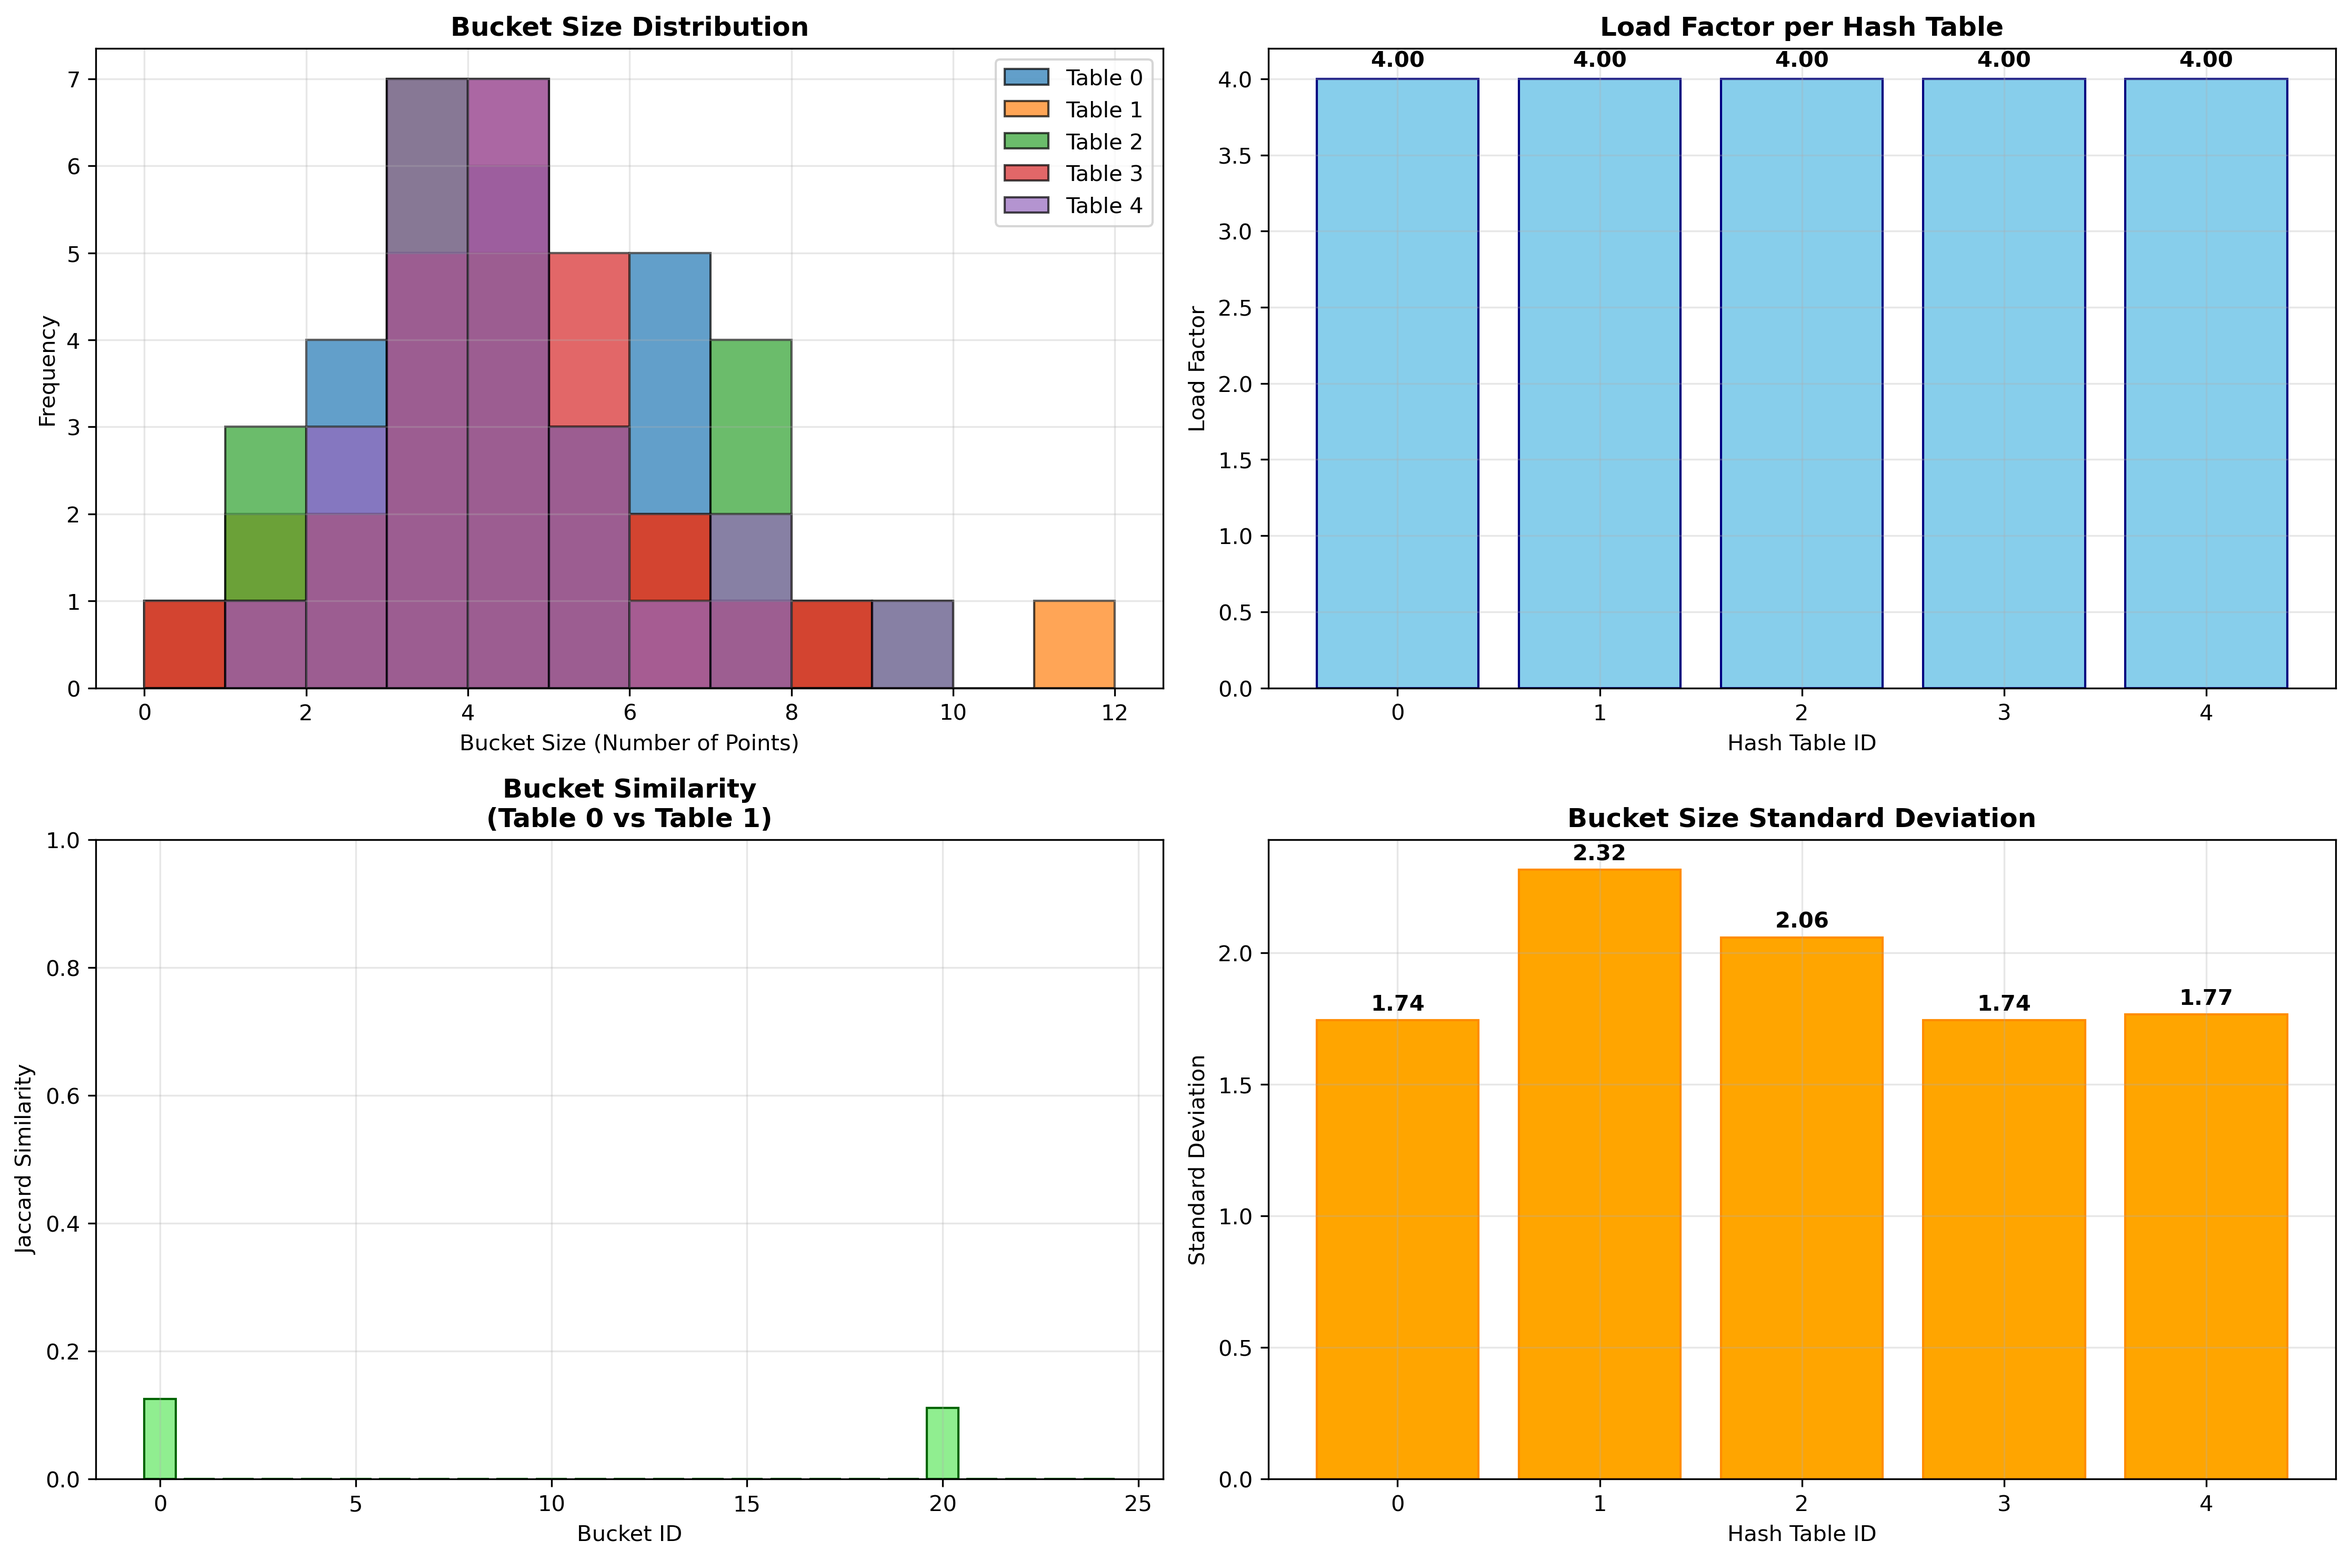
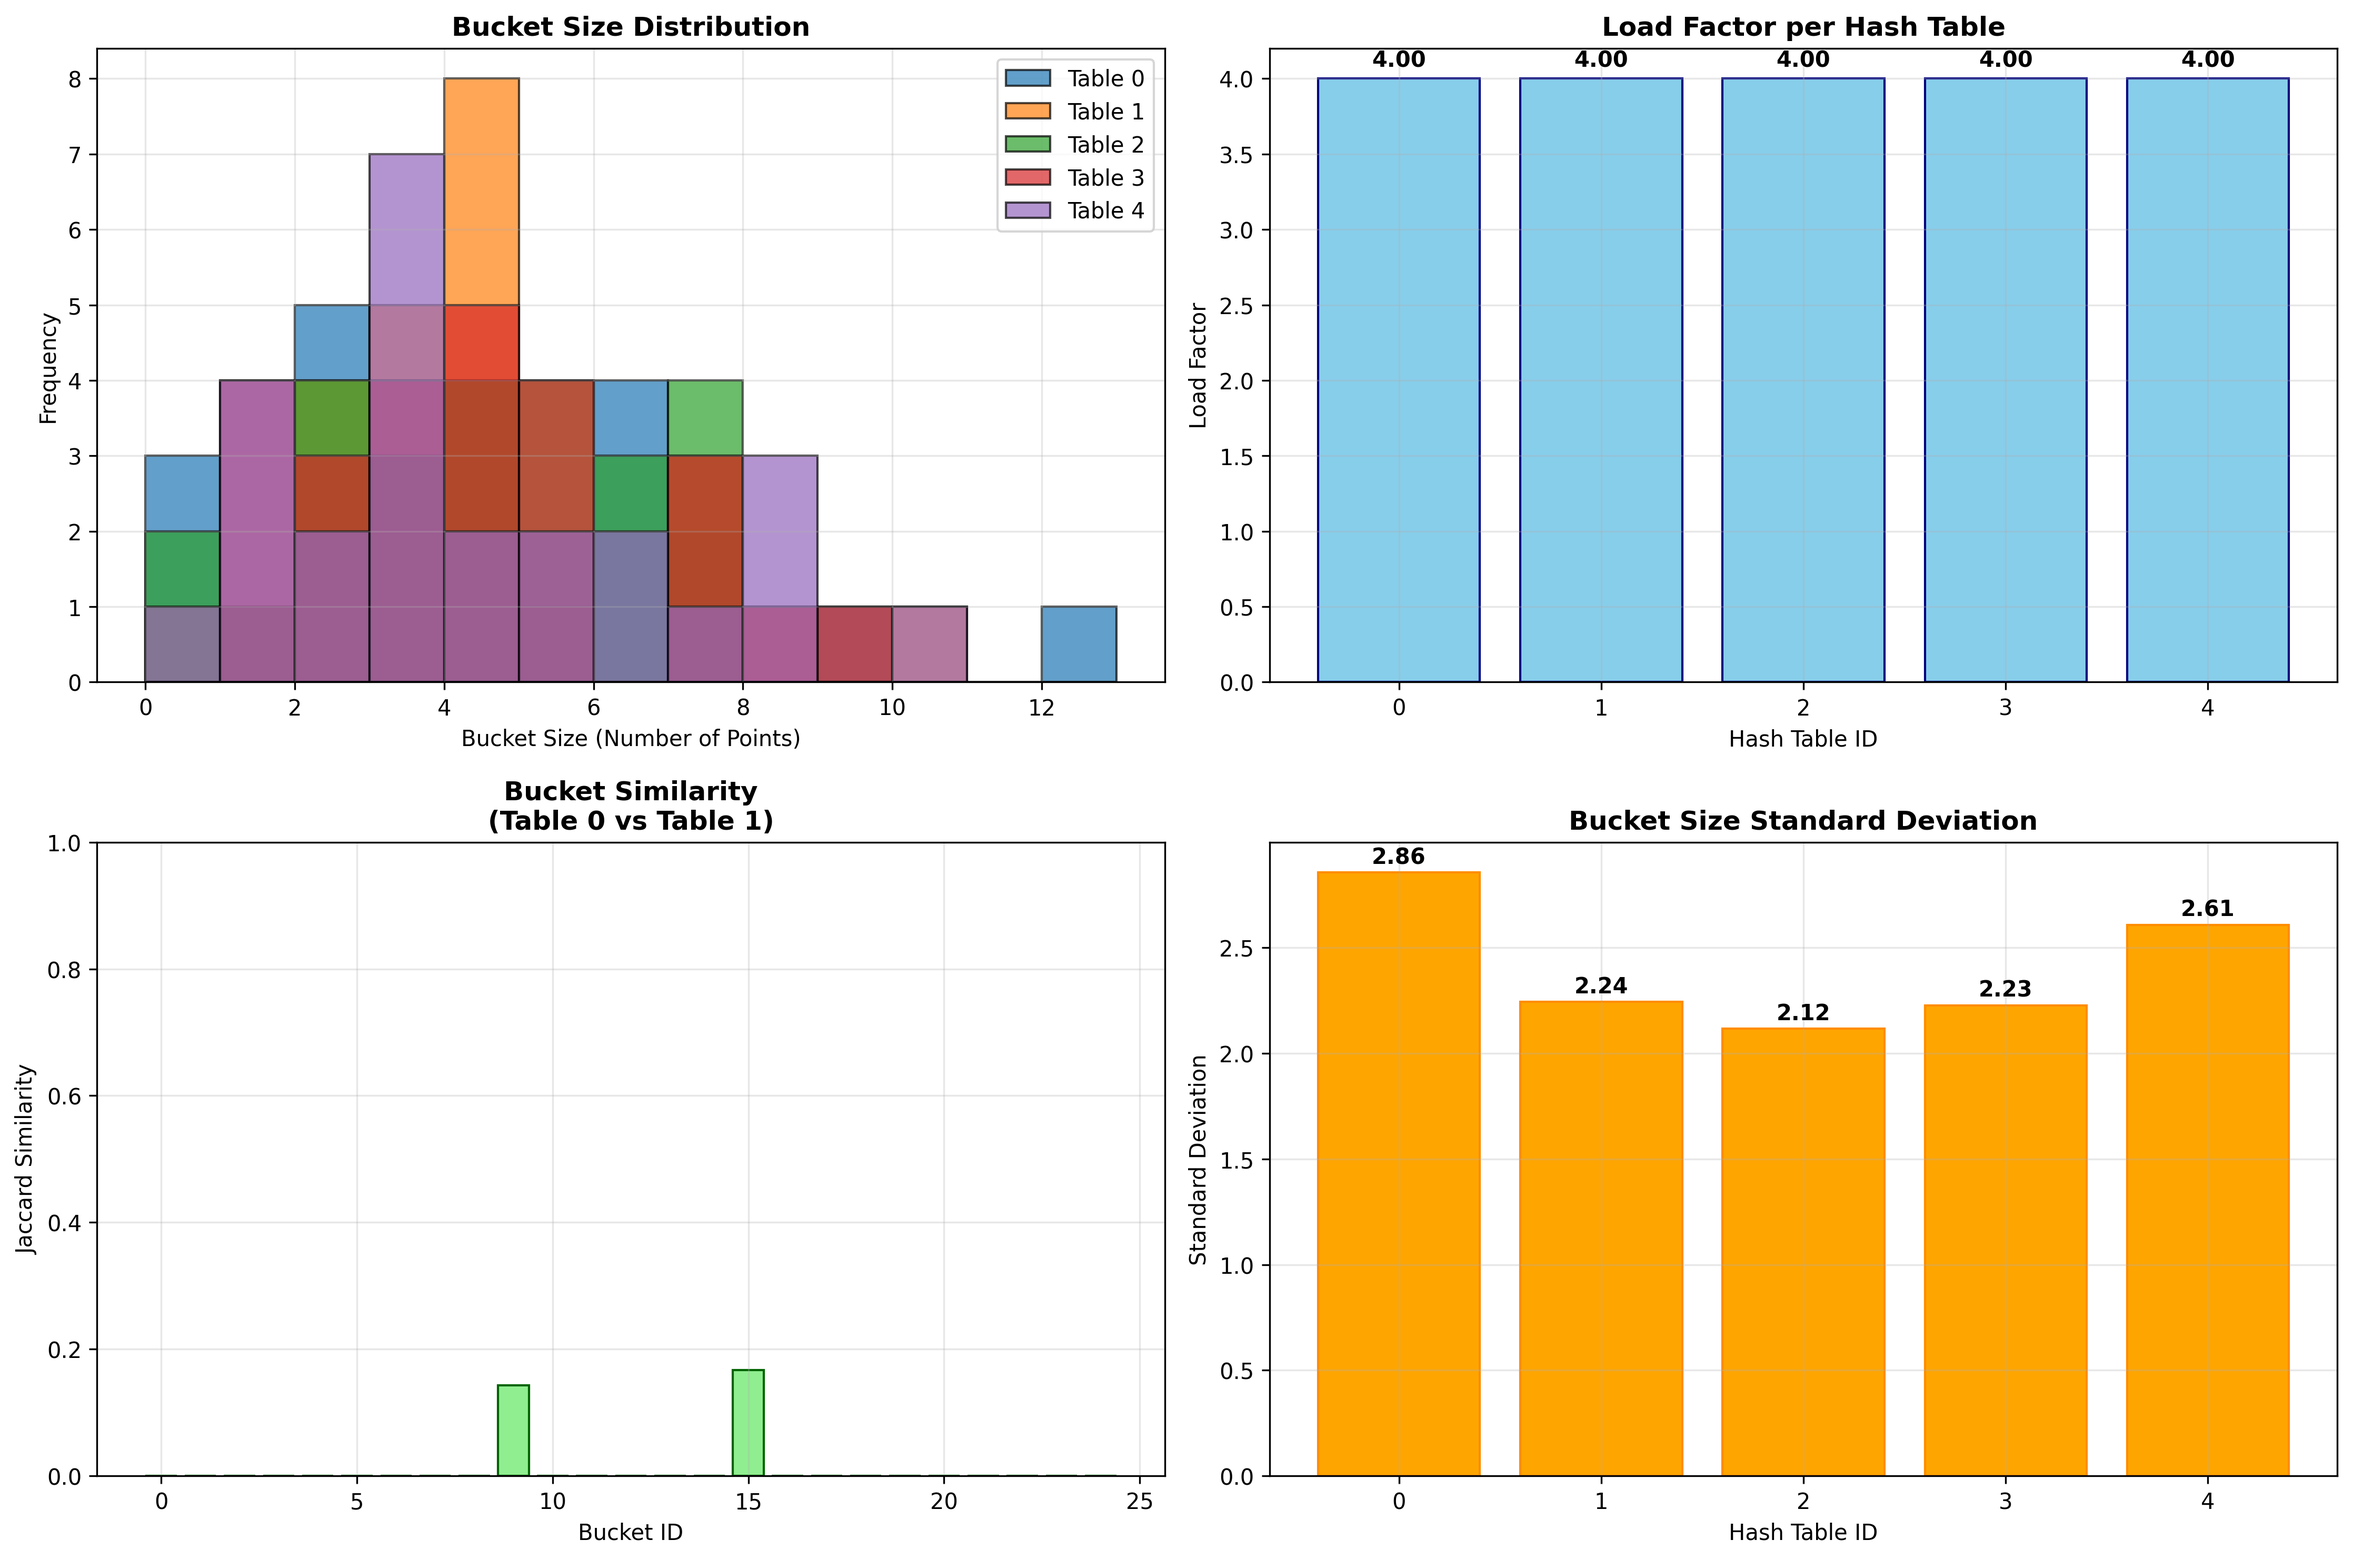
Changes in practical ways (modularity with void pointers) (we cant stand theory)

diff --git a/src/hashtable.c b/src/hashtable.c
@@ -78,11 +78,9 @@ int hash_table_insert(HashTable hash_table, void *key, void *data)
         return -1;
     }
     new_node->data = data;
-    new_node->key = key;
-    
-    printf("key -> %p", &(*key));
-    printf("new key -> %p", &(*new_node->key));
-    puts("@@@@@@@@@@@@@@@@@@@");
+
+    new_node->key = (void*)malloc(sizeof(void*));
+    memcpy(new_node->key, key, sizeof(void*));
 
     new_node->ID = ID;
     new_node->next = NULL;
@@ -297,7 +295,7 @@ void print_hashtables(int L, int table_size, HashTable* hash_tables, int dimensi
     }
 
     // Print the contents of each hash table
-    for (int i = 0; i < 1; i++)
+    for (int i = 0; i < L; i++)
     {
         printf("Hash table %d:\n", i);
 
@@ -332,7 +330,8 @@ void print_hashtables(int L, int table_size, HashTable* hash_tables, int dimensi
 
                         }
 
-                        printf(") | ID = %d, key = %d -> \n", currentBucket->ID, *(int*)(currentBucket->key));
+                        printf(") -> ");
+                        // printf(") | ID = %d, key = %d -> \n", currentBucket->ID, *(int*)(currentBucket->key));
                     }
                     
                     // Check if next pointer is accessible before dereferencing

diff --git a/src/lsh.c b/src/lsh.c
@@ -55,8 +55,8 @@ void lsh_init(const struct SearchParams* params, const struct Dataset* dataset)
     printf("Running LSH with dataset: %s\n", params->dataset_path);
     lsh = (LSH*)malloc(sizeof(LSH));
     lsh->d = dataset->dimension;
-    lsh->L = 1;
-    lsh->k = 1; 
+    lsh->L = params->L;
+    lsh->k = params->k; 
     lsh->w = params->w;
     lsh->table_size = 25; // TODO make it a parameter n/4
     lsh->num_of_buckets = 91; // TODO make it a parameter prime 
@@ -190,9 +190,4 @@ void lsh_init(const struct SearchParams* params, const struct Dataset* dataset)
     
     // print the contents of each hash table
     print_hashtables(lsh->L, lsh->table_size, lsh->hash_tables, dataset->dimension);
-
-
-
-
-
 }

diff --git a/src/main.c b/src/main.c
@@ -17,12 +17,9 @@ int main(int argc, char **argv)
         return EXIT_FAILURE;
 
     printf("Dataset loaded: %d points of dimension %d\n", dataset->size, dataset->dimension);
-    
 
-
-    // //print some points
-    printPartialDataset(20, dataset);
-
+    //print some points
+    // printPartialDataset(20, dataset);
 
     switch (params.algorithm)
     {

diff --git a/src/datasets.c b/src/datasets.c
@@ -33,7 +33,6 @@ Dataset* read_data(const char* dataset_path)
         EXIT_FAILURE;
     }
     
-    dataset->size = 20;
     for (int i = 0; i < dataset->size; i++)
     {
         dataset->data[i] = (void*)malloc(dataset->dimension * sizeof(float));
